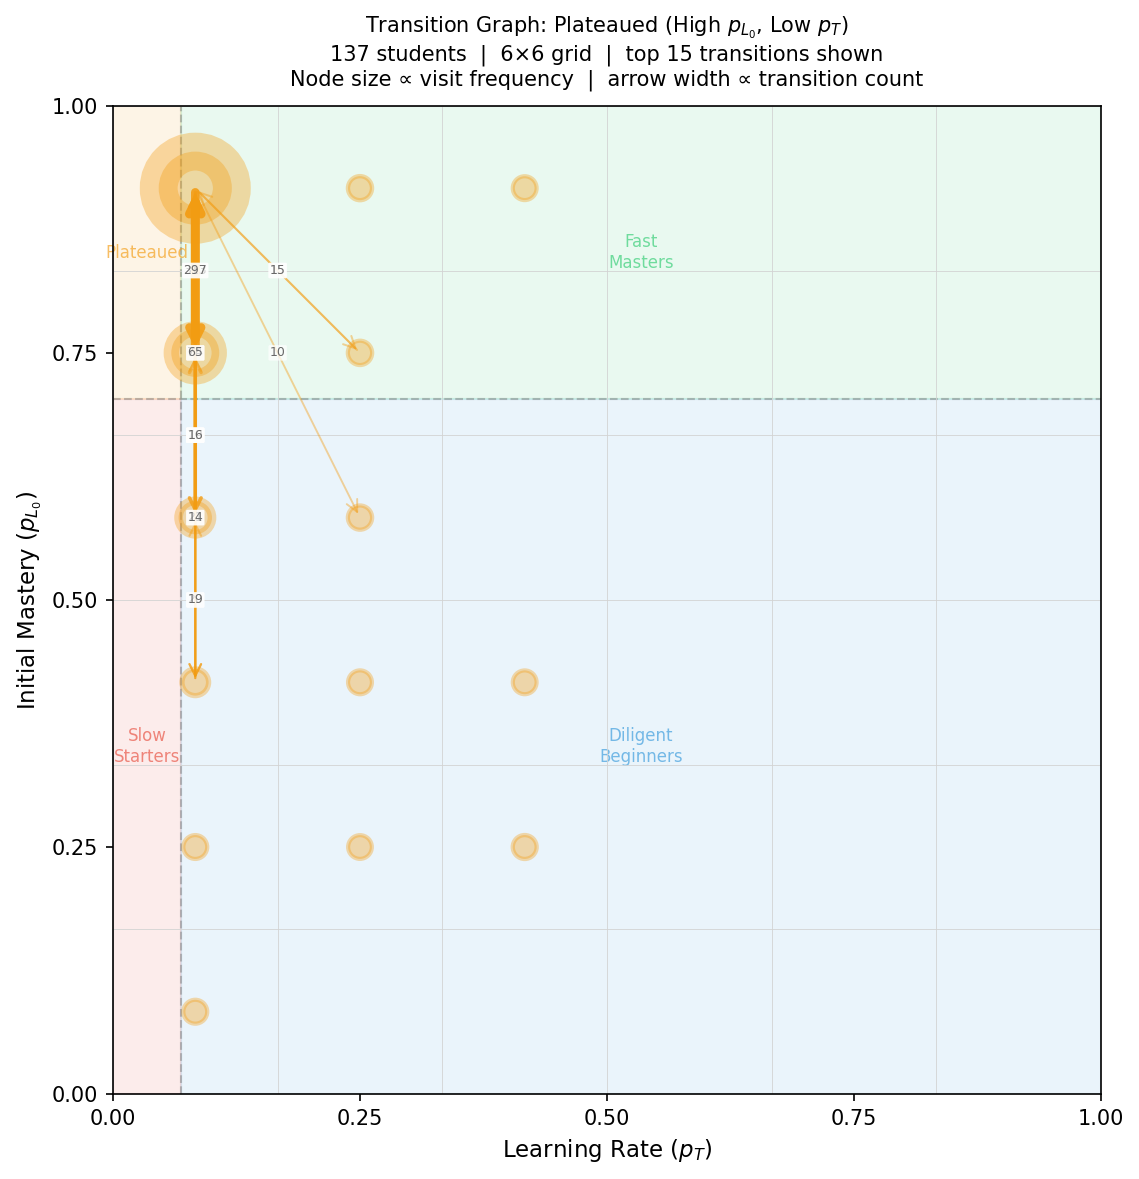
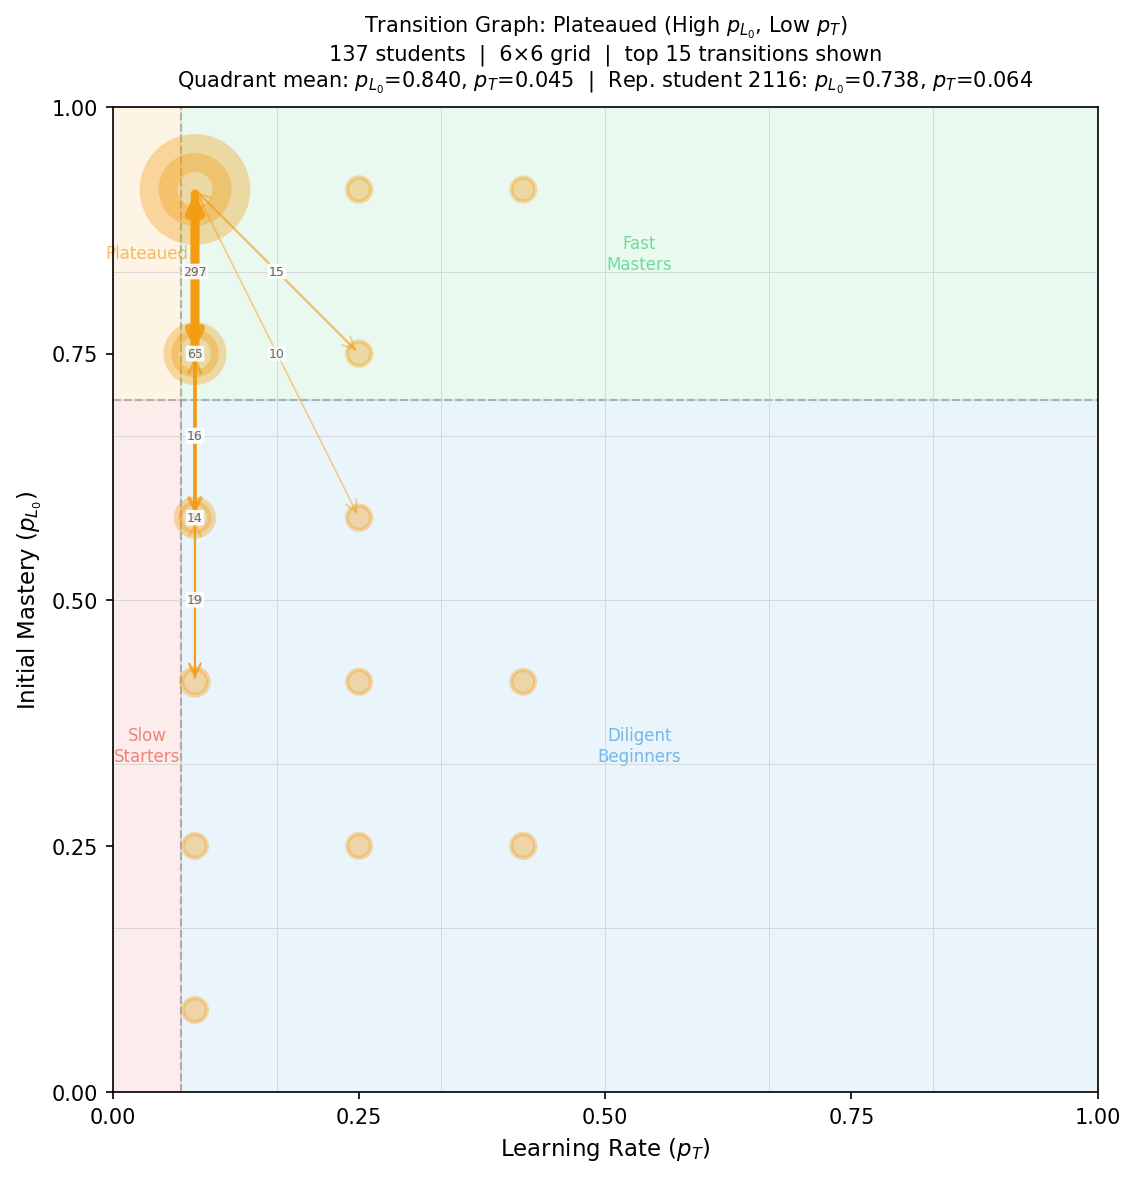
plots: transition graphs improvements

diff --git a/examples/results/generate_attractor_dynamics_plots.py b/examples/results/generate_attractor_dynamics_plots.py
@@ -312,10 +312,15 @@ def plot_transition_graph(df, sm, rate_col, init_col, representatives,
                     bbox=dict(boxstyle='round,pad=0.1', fc='white', ec='none', alpha=0.7))
 
         n_quad = len(quad_ids)
+        quad_mean_l0 = sm.loc[quad_ids, init_col].mean()
+        quad_mean_t  = sm.loc[quad_ids, rate_col].mean()
+        rep_mean_l0  = sm.loc[uid, init_col]
+        rep_mean_t   = sm.loc[uid, rate_col]
         ax.set_title(
             f'Transition Graph: {labels[i]}\n'
             f'{n_quad} students  |  {grid_n}×{grid_n} grid  |  top {top_k} transitions shown\n'
-            f'Node size ∝ visit frequency  |  arrow width ∝ transition count',
+            f'Quadrant mean: $p_{{L_0}}$={quad_mean_l0:.3f}, $p_T$={quad_mean_t:.3f}'
+            f'  |  Rep. student {uid}: $p_{{L_0}}$={rep_mean_l0:.3f}, $p_T$={rep_mean_t:.3f}',
             fontsize=10, pad=10
         )
         ax.set_aspect('equal')
